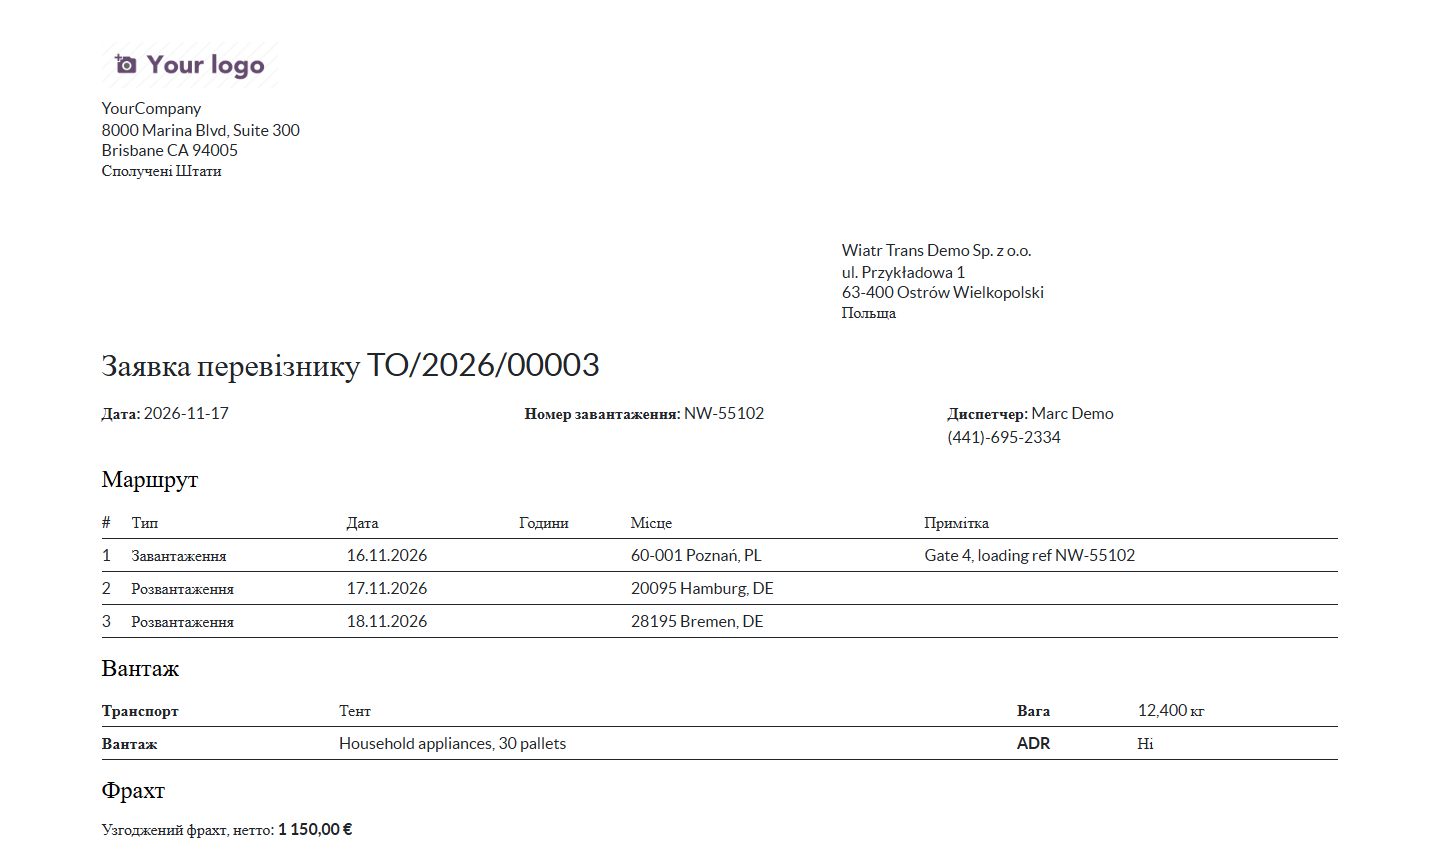
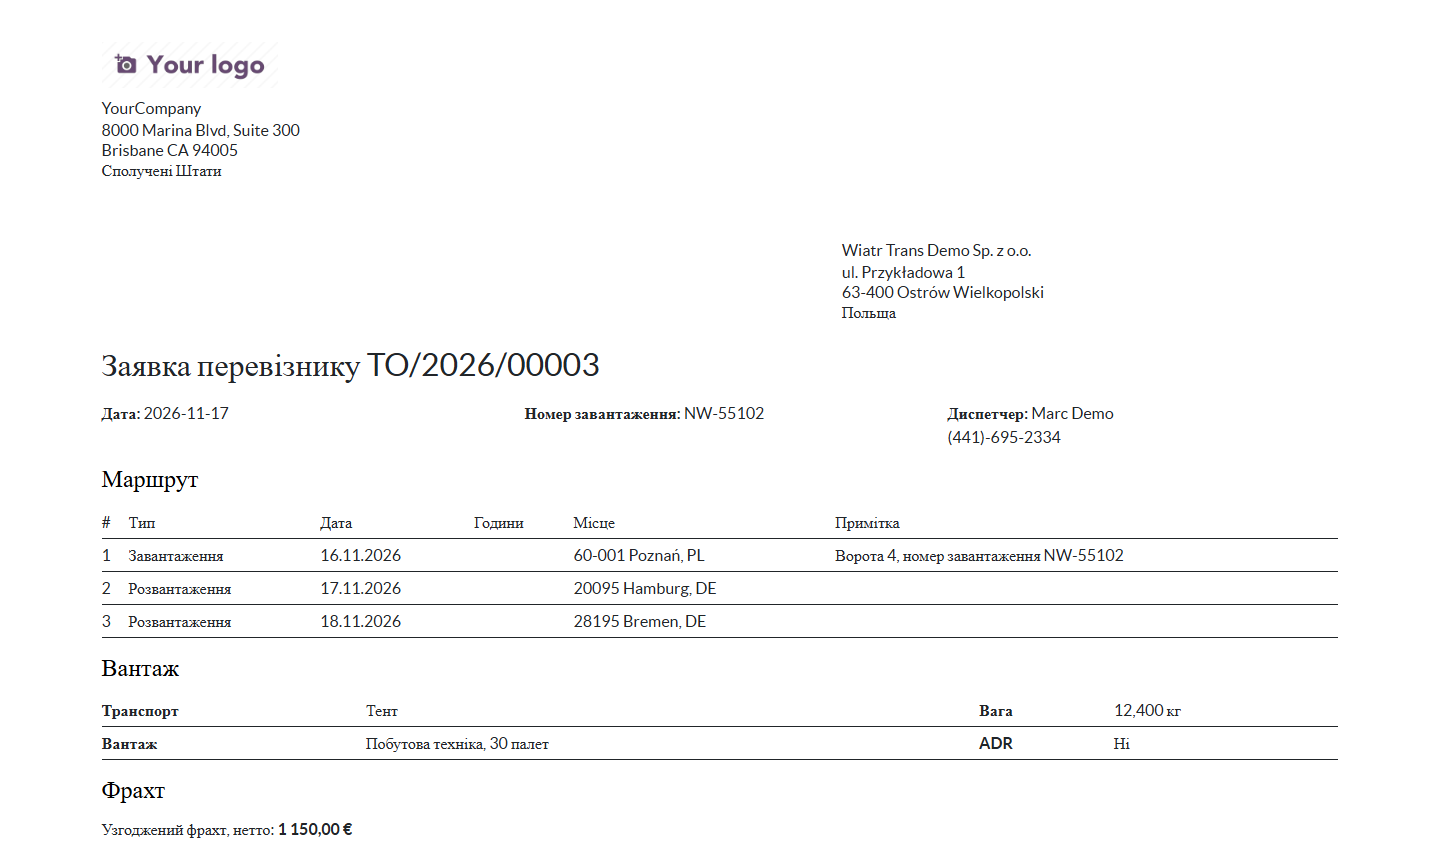
feat: Ukrainian demo texts and a translatable creation message
- demo cargo descriptions, notes, place names and stop notes in Ukrainian
- own chatter creation message ("Transport order created"): Odoo's generic
  "%s created" does not agree in gender in Ukrainian or Polish
- Ukrainian screenshots and sample PDF retaken

diff --git a/addons/transport_order/models/transport_order.py b/addons/transport_order/models/transport_order.py
@@ -222,6 +222,11 @@ class TransportOrder(models.Model):
                 _("Order %(name)s is in progress. Cancel it before deleting.", name=active[0].name)
             )
 
+    def _creation_message(self):
+        # Odoo's generic "%s created" does not agree in gender in Ukrainian or Polish, so the order has its own text.
+        self.ensure_one()
+        return _("Transport order created")
+
     # ------------------------------------------------------------------
     # Status flow
     # ------------------------------------------------------------------

diff --git a/README.md b/README.md
@@ -23,7 +23,7 @@ and I checked the result in Odoo and with the automated tests.
 | Access | Dispatcher: full daily work, no delete. Manager: can delete draft/cancelled orders and reopen cancelled ones. Multi-company record rules |
 | Views | List, form with chatter (field tracking), kanban by status, pivot and graph for margin by carrier and month, search filters and group-bys |
 | Partners | "Carrier" checkbox on contacts, Clients and Carriers menus, smart button with the partner's orders |
-| Languages | English source strings, full Ukrainian translation (`i18n/uk.po`). The carrier order PDF is printed in the carrier's language (`t-lang`) |
+| Languages | English source strings, full Ukrainian translation (`i18n/uk.po`). The carrier order PDF is printed in the carrier's language (`t-lang`). Demo texts (cargo, notes) are in Ukrainian |
 
 ## Screenshots
 
